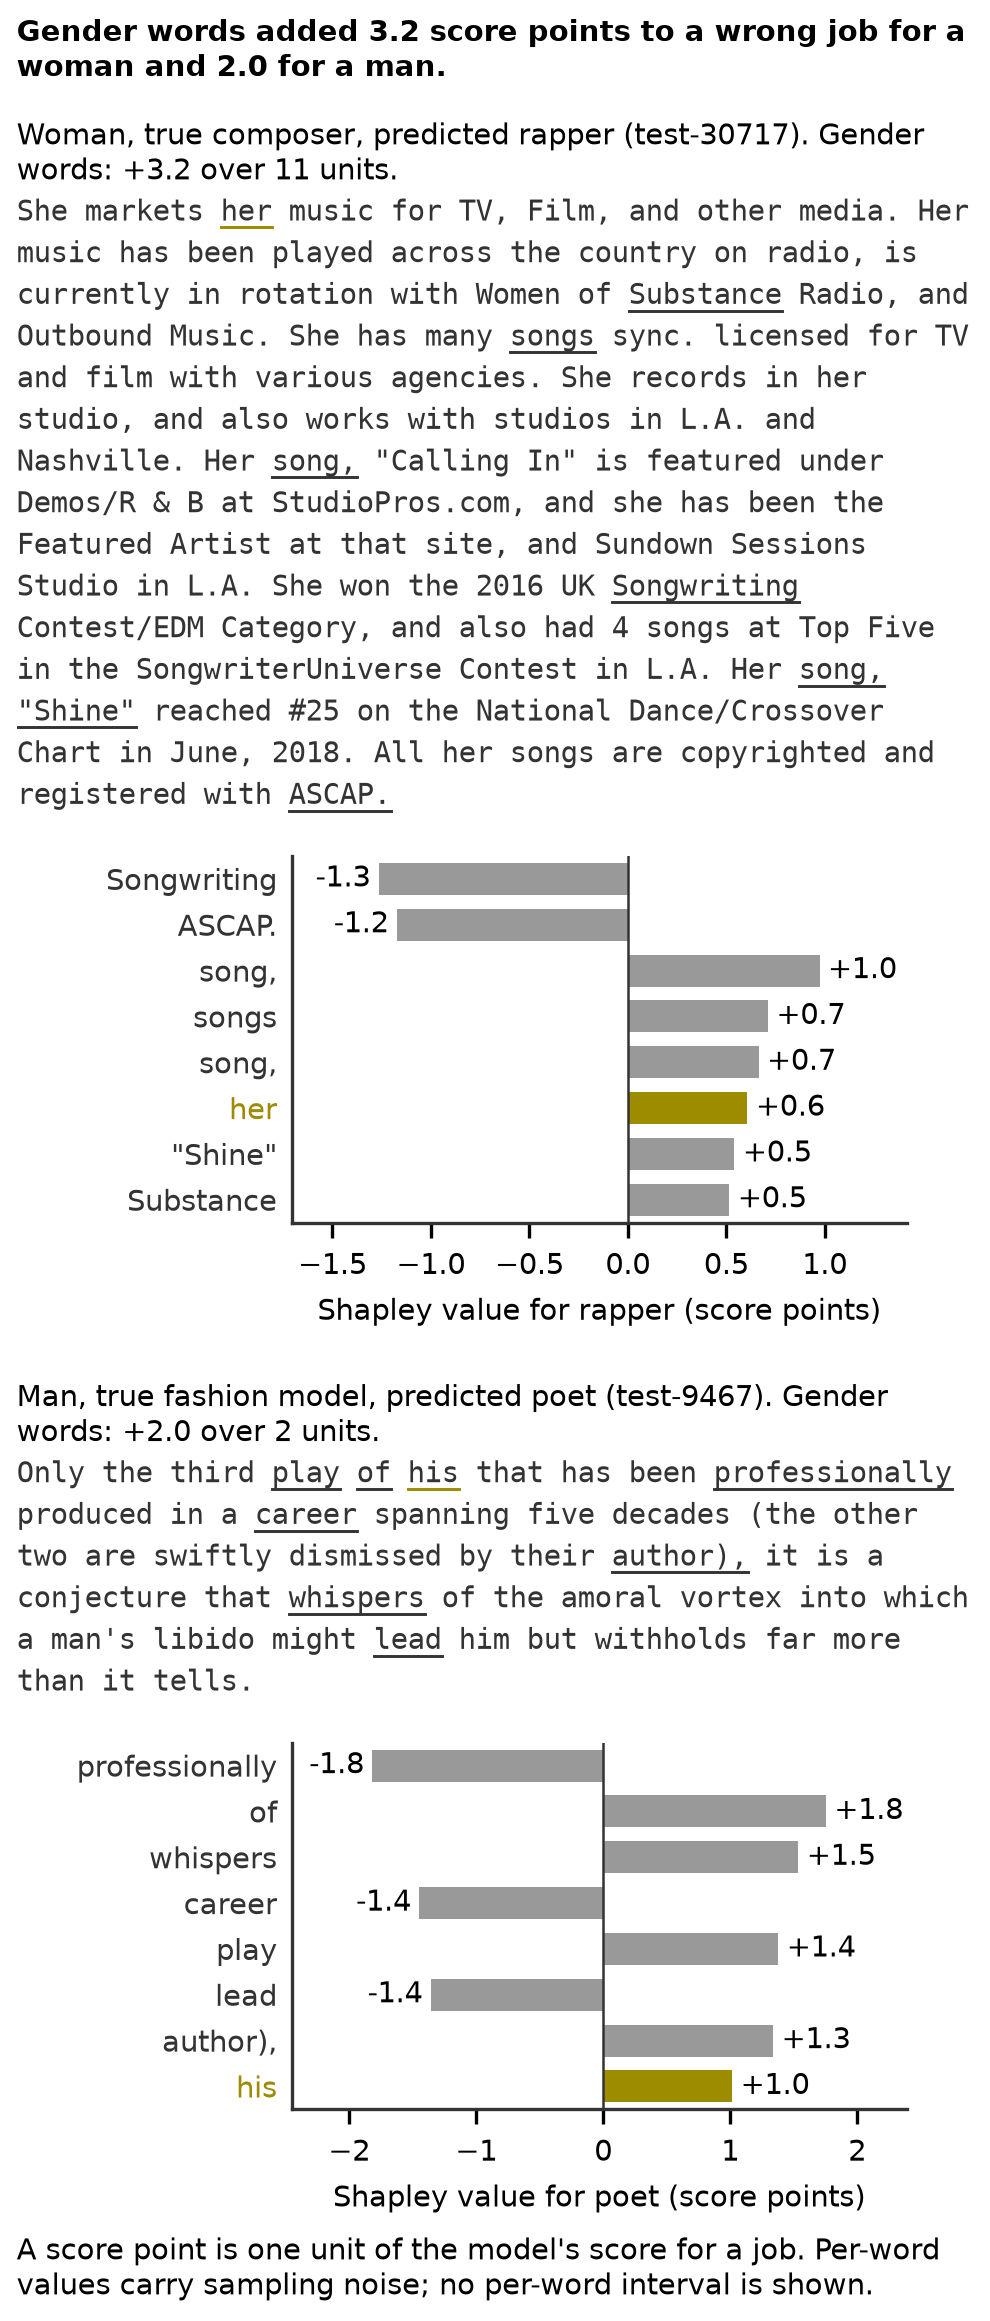
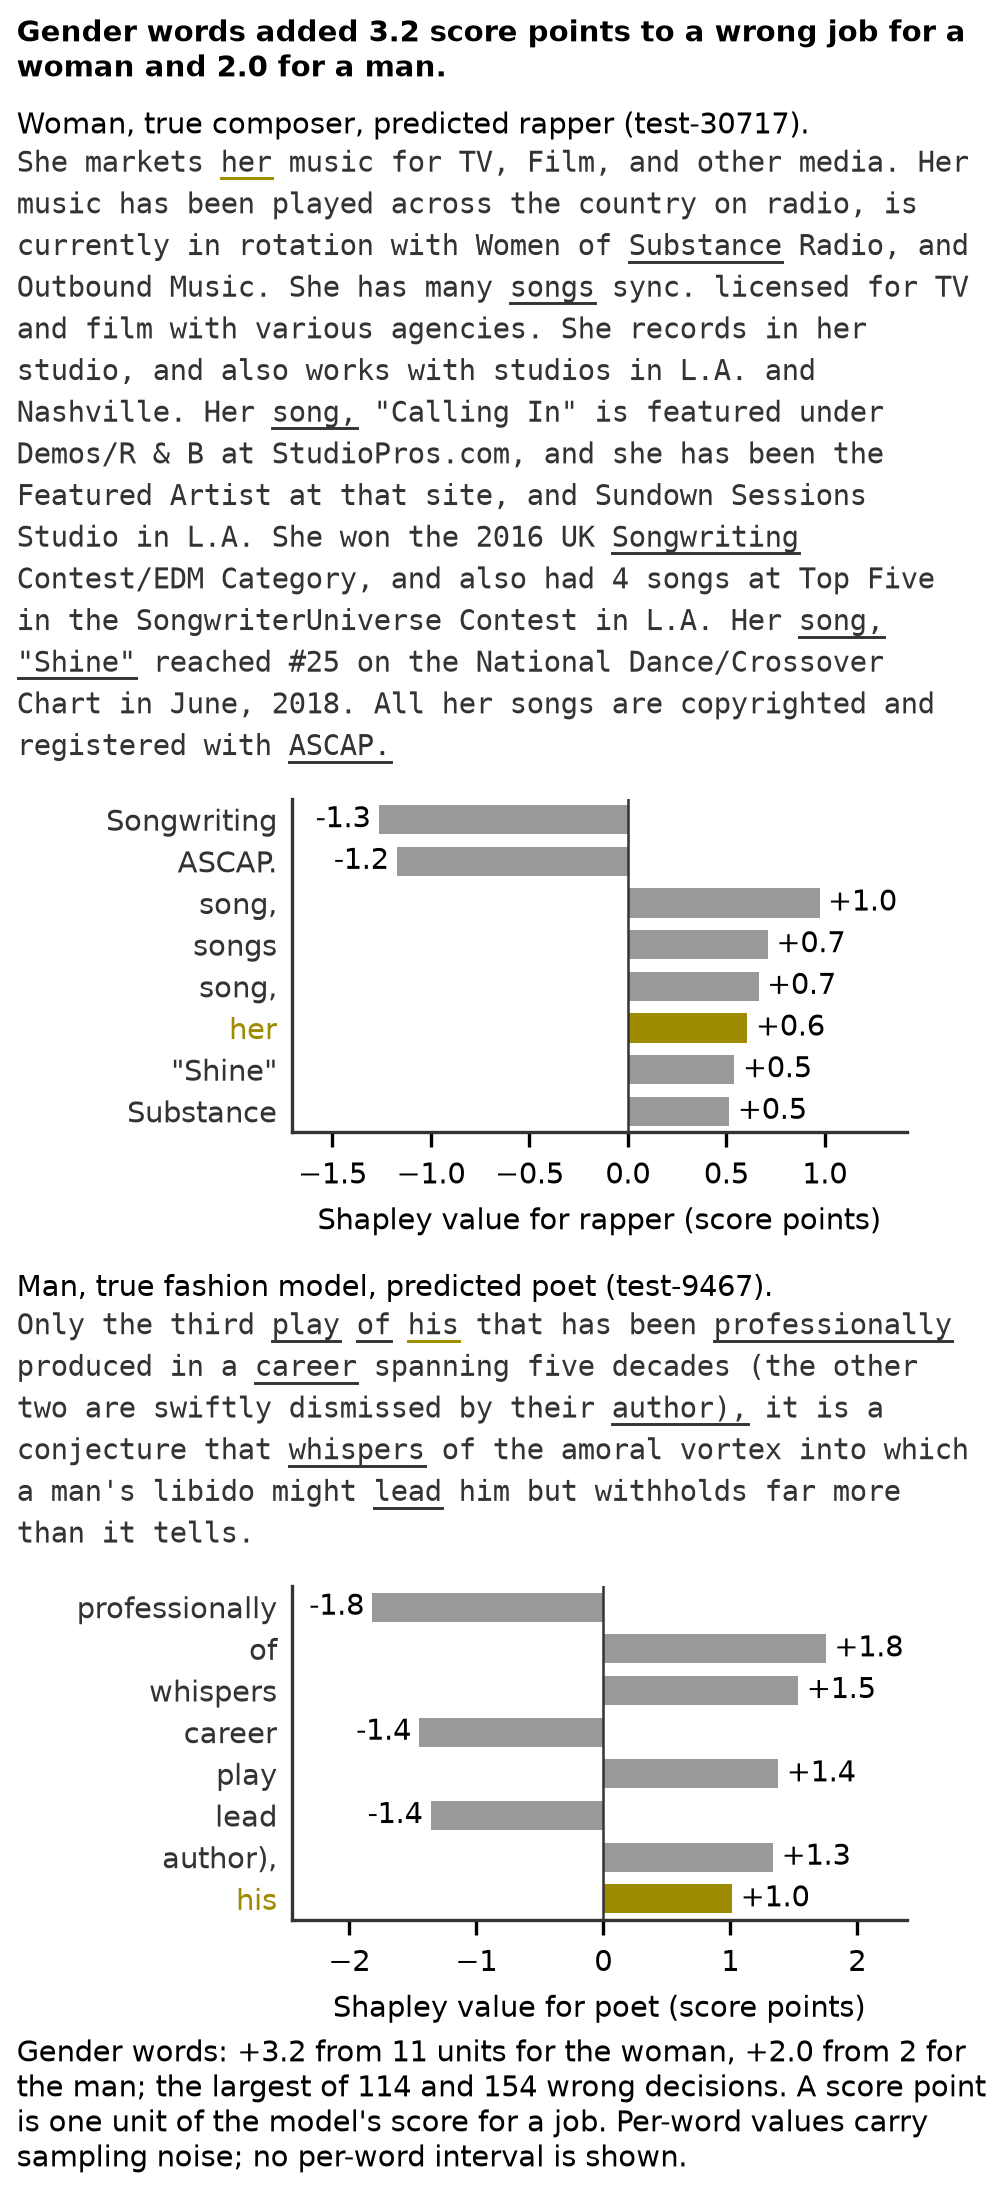
F2: totals of the gender words and how extreme the cases are in a note, tighter spacing

Changed region(s): [[0.0, 0.0, 1.0, 0.9922], [0.9091, 0.0, 0.9697, 0.031], [0.6061, 0.0, 0.6364, 0.031]]

diff --git a/scripts/figure_f2.py b/scripts/figure_f2.py
@@ -101,9 +101,9 @@ LINE_PT = 10
 MARGIN_PT = 4
 LABEL_PT = 70
 VALUE_ROOM_PT = 16
-BAR_PT = 11
-AXIS_PT = 30
-GAP_PT = 8
+BAR_PT = 10
+AXIS_PT = 28
+GAP_PT = 6
 LABEL_CHARS = 14
 
 
@@ -223,7 +223,21 @@ def _title(woman: Case | None, man: Case | None) -> str:
     return "No misclassified woman or man met the rules, so there is no case to show."
 
 
-def build(woman: Case | None, man: Case | None):
+def _totals(woman: Case | None, man: Case | None, wrong: tuple[int, int] | None) -> str:
+    """The gender words total of each case, and how extreme the cases are among the wrong calls."""
+    parts = []
+    for case, who, first in ((woman, "woman", True), (man, "man", False)):
+        if case:
+            units = int(_gendered_mask(case).sum())
+            tail = f" units for the {who}" if first else f" for the {who}"
+            parts.append(f"{gendered_push(case):+.1f} from {units}{tail}")
+    text = "Gender words: " + ", ".join(parts)
+    if wrong and woman and man:
+        text += f"; the largest of {wrong[0]} and {wrong[1]} wrong decisions"
+    return text + ". "
+
+
+def build(woman: Case | None, man: Case | None, wrong: tuple[int, int] | None = None):
     """For each group, the bio with its eight largest words underlined and a bar for each.
 
     A group without a case gets a one-line panel that says so.
@@ -238,7 +252,7 @@ def build(woman: Case | None, man: Case | None):
     text_width = width - 2 * MARGIN_PT
     capacity = int(text_width // char_pt)
     title = _title(woman, man)
-    note = (
+    note = _totals(woman, man, wrong) + (
         "A score point is one unit of the model's score for a job. Per-word values carry sampling "
         "noise; no per-word interval is shown."
     )
@@ -251,11 +265,10 @@ def build(woman: Case | None, man: Case | None):
             header = f"{label} in a {kind}-dominated occupation: no bio met the rules."
             panels.append((header, _text_height_pt(fig, header), None, None, 0))
             continue
-        units = int(_gendered_mask(case).sum())
         header = (
             f"{label}, true {plotting.job_name(case.true)}, "
             f"predicted {plotting.job_name(case.predicted)} "
-            f"({case.bio_id}). Gender words: {gendered_push(case):+.1f} over {units} units."
+            f"({case.bio_id})."
         )
         order = np.argsort(-np.abs(case.values), kind="stable")[:TOP_WORDS]
         sentence_pt = (_layout(case.words, capacity)[-1][0] + 1) * LINE_PT + 2
@@ -302,7 +315,7 @@ def main(results_dir: Path = RESULTS_DIR):
     predicted = results.load_predictions(SCREENER, subset)
     cases, skipped = load_cases(subset, list(predicted))
     showcase = json.loads((results_dir / "showcase_occupations.json").read_text())
-    picks, record = [], {}
+    picks, record, wrong = [], {}, []
     for _, key, gender, side in GROUPS:
         group = [row["occupation"] for row in showcase[side]]
         n_wrong = sum(
@@ -310,11 +323,12 @@ def main(results_dir: Path = RESULTS_DIR):
         )
         picked = pick(cases, gender, group)
         picks.append(picked)
+        wrong.append(n_wrong)
         record[key] = {
             "n_wrong": n_wrong,
             "pick": _record(picked) if picked else None,
         }
-    fig = build(*picks)
+    fig = build(*picks, wrong=(wrong[0], wrong[1]))
     plotting.save(fig, FIGURE_NAME, results_dir / "figures")
     results.write_json(
         results_dir / "f2_cases.json",

diff --git a/tests/test_figure_f8.py b/tests/test_figure_f8.py
@@ -198,9 +198,7 @@ def test_arms_are_labelled_directly_without_a_legend_and_the_axis_is_per_100_qua
     for name in ("neutral", "pronouns", "Morocco", "woman", "man"):
         assert any(name in label for label in labels)
     assert ax.get_legend() is None
-    assert " ".join(ax.get_xlabel().split()) == (
-        "Change in yes-rate (points), against no name"
-    )
+    assert " ".join(ax.get_xlabel().split()) == ("Change in yes-rate (points), against no name")
 
 
 def test_the_figure_is_3_3_inches_wide_and_no_text_is_below_7_pt(figure):
